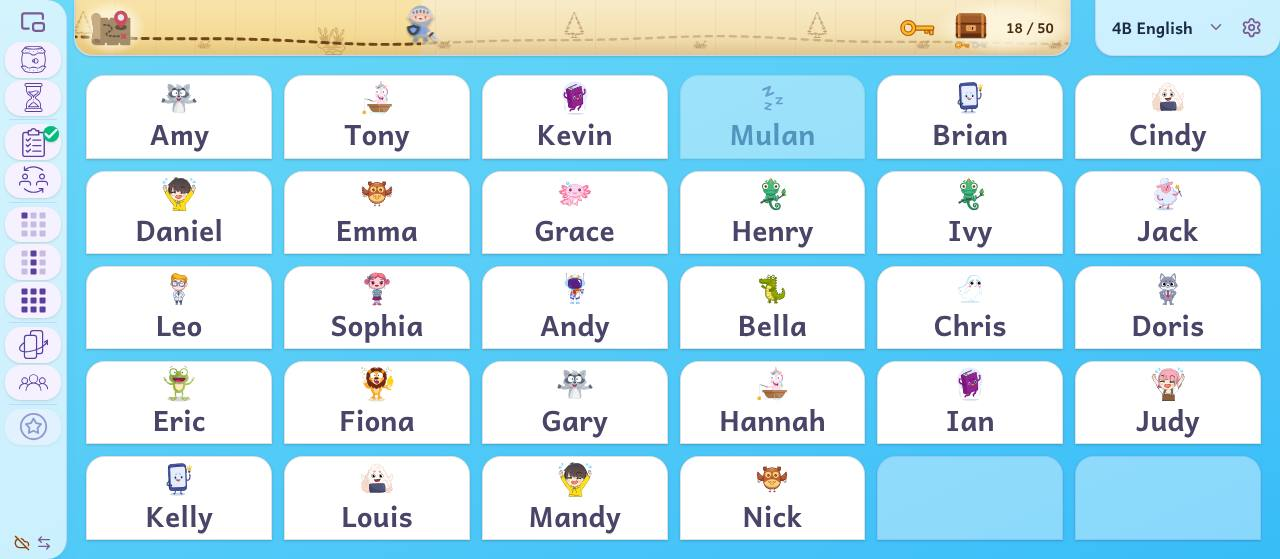
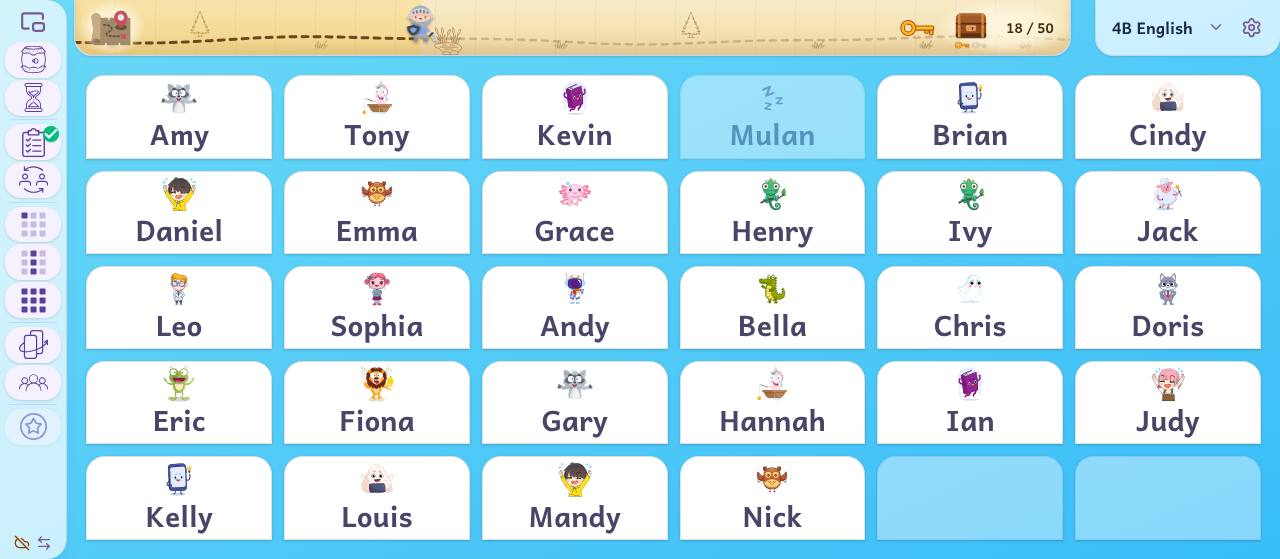
The goal bar's land and trail stay still while the knight walks, and slide back with him when a key is won; the last star of a goal no longer jerks the knight forward and back; on Our Quest the knight is smaller and walks past each chest at one steady pace
Claude-Session: https://claude.ai/code/session_01PE13qieobsrHkmKNdm9Swm

Changed region(s): [[0.4375, 0.0304, 0.75, 0.0912], [0.0938, 0.0608, 0.4062, 0.0912], [0.8125, 0.0608, 0.8438, 0.0912]]

diff --git a/src/components/quest/OurQuest.tsx b/src/components/quest/OurQuest.tsx
@@ -42,8 +42,15 @@ function writeSeen(classId: string, quest: number, at: number) {
     // A board that can't keep it replays from the start next time; nothing else depends on it.
   }
 }
-/** The knight's walk since the map was last open: quick when it is short, never more than a few seconds. */
-const replayMs = (distance: number) => Math.min(3000, Math.max(1200, distance * 1800))
+/** The knight's height, in chests: small beside the sleeping dragon (2026-10-13, the teacher: he was a tad too big). */
+const KNIGHT = 0.9
+/** The share of each chest's stretch, on the replay, that is the walk past the chest to the next stretch. */
+const PAST = 0.15
+/** Where the class is on the replay's route: the chest it is on and how far along that stretch. */
+const routeAt = (chest: number, t: number) => chest + (chest < CHESTS.length - 1 ? t * (1 - PAST) : t)
+
+/** The knight's walking pace on the replay, in the map's pixels a second. */
+const PACE = 320
 
 /** Low, high, low, high, and the Mega chest in the middle at the end. */
 const ROW = ['low', 'high', 'low', 'high', 'mega'] as const
@@ -84,7 +91,7 @@ export function OurQuest({ classId, quest, classPoints, goal, onOpenChest, onClo
   const dragonRef = useRef<HTMLImageElement>(null)
   const doodles = useRef<HTMLDivElement>(null)
   /** Puts the knight on the trail at a place in chests, once the map is drawn (for the replay). */
-  const placeKnight = useRef<((at: number) => void) | null>(null)
+  const placeKnight = useRef<{ distance: (at: number) => number; place: (d: number) => void } | null>(null)
   const replaying = useRef(false)
 
   // Drawn from where the chests really are, so again whenever the map changes size.
@@ -123,7 +130,7 @@ export function OurQuest({ classId, quest, classPoints, goal, onOpenChest, onClo
       let knightBox: Box | null = null
       const seg = svg.querySelectorAll('path')[now.chest] as SVGPathElement | undefined
       if (k && seg) {
-        const h = u * 1.25
+        const h = u * KNIGHT
         const w = h
         k.style.height = `${h}px`
         const len = seg.getTotalLength()
@@ -143,20 +150,58 @@ export function OurQuest({ classId, quest, classPoints, goal, onOpenChest, onClo
           svg.insertAdjacentHTML('beforeend', dot(`M${pts.join(' L')}`, '#7a4a1f'))
         }
       }
-      // For the replay: the knight anywhere along the whole trail, a place in chests (a whole
-      // number is at a chest, reached from the segment before it).
-      placeKnight.current = (v: number) => {
+      // For the replay: the knight anywhere along the whole trail (`routeAt`). Each chest's
+      // stretch ends with a short walk straight past the chest to the next stretch's start, so he
+      // walks by a chest rather than jumping from one side of it to the other, at one pace all the
+      // way (2026-10-13, the teacher).
+      placeKnight.current = (() => {
         const paths = svg.querySelectorAll('path')
-        const i = Math.max(0, Math.min(CHESTS.length - 1, Math.ceil(v) - 1))
-        const f = Math.max(0, Math.min(1, v - i))
-        const sp = paths[i] as SVGPathElement | undefined
-        if (!k || !sp) return
-        const h = u * 1.25
-        const len = sp.getTotalLength()
-        const lo = Math.min(0.45, h / 2 / Math.max(1, len))
-        const q = sp.getPointAtLength(len * (lo + f * (1 - 2 * lo)))
-        k.style.transform = `translate(${(q.x - h / 2).toFixed(1)}px, ${(q.y - h * 0.9).toFixed(1)}px)`
-      }
+        const h = u * KNIGHT
+        const on = (i: number, f: number) => {
+          const sp = paths[i] as SVGPathElement | undefined
+          if (!sp) return null
+          const len = sp.getTotalLength()
+          const lo = Math.min(0.45, h / 2 / Math.max(1, len))
+          return sp.getPointAtLength(len * (lo + f * (1 - 2 * lo)))
+        }
+        // The route as distances, so he walks at one pace along the trail and past each chest.
+        const parts: { len: number; at: (f: number) => { x: number; y: number } | null }[] = []
+        for (let i = 0; i < CHESTS.length; i++) {
+          const sp = paths[i] as SVGPathElement | undefined
+          const len = sp ? sp.getTotalLength() : 0
+          const lo = Math.min(0.45, h / 2 / Math.max(1, len))
+          parts.push({ len: len * (1 - 2 * lo), at: (f) => on(i, f) })
+          if (i < CHESTS.length - 1) {
+            const a = on(i, 1)
+            const b = on(i + 1, 0)
+            parts.push({
+              len: a && b ? Math.hypot(b.x - a.x, b.y - a.y) : 0,
+              at: (f) => (a && b ? { x: a.x + (b.x - a.x) * f, y: a.y + (b.y - a.y) * f } : null),
+            })
+          }
+        }
+        /** How far along the route a place is: the chest's stretch, then the walk past it. */
+        const distance = (v: number) => {
+          const i = Math.max(0, Math.min(CHESTS.length - 1, Math.floor(v)))
+          const x = Math.max(0, Math.min(1, v - i))
+          let d = 0
+          for (let j = 0; j < i * 2; j++) d += parts[j].len
+          if (i === CHESTS.length - 1) return d + x * parts[i * 2].len
+          if (x <= 1 - PAST) return d + (x / (1 - PAST)) * parts[i * 2].len
+          return d + parts[i * 2].len + ((x - (1 - PAST)) / PAST) * parts[i * 2 + 1].len
+        }
+        const place = (d: number) => {
+          for (const part of parts) {
+            if (d <= part.len || part === parts[parts.length - 1]) {
+              const q = part.at(part.len ? Math.min(1, d / part.len) : 1)
+              if (k && q) k.style.transform = `translate(${(q.x - h / 2).toFixed(1)}px, ${(q.y - h * 0.9).toFixed(1)}px)`
+              return
+            }
+            d -= part.len
+          }
+        }
+        return { distance, place }
+      })()
 
       // The doodles, placed like a map and in the goal bar's order: the castle and its wall where
       // the quest starts, a dense forest between Wood and Bronze, a pond at its edge, a cottage over
@@ -323,16 +368,20 @@ export function OurQuest({ classId, quest, classPoints, goal, onOpenChest, onClo
     return seen && seen.quest === quest.number ? seen.at : 0
   })
   useEffect(() => {
-    const to = now.chest + t
+    const to = routeAt(now.chest, t)
     const from = Math.min(seenFrom, to)
     writeSeen(classId, quest.number, to)
     if (to - from < 0.02 || !placeKnight.current || window.matchMedia?.('(prefers-reduced-motion: reduce)').matches) return
-    const ms = replayMs(to - from)
+    const route = placeKnight.current
+    const d0 = route.distance(from)
+    const d1 = route.distance(to)
+    // An even walking pace, as on the goal bar: a short walk takes a second or so, a long one a few.
+    const ms = Math.min(4500, Math.max(1200, ((d1 - d0) / PACE) * 1000))
     const start = performance.now() + 450 // once the map has slid in
     let raf = 0
     let steps: ReturnType<typeof setInterval> | undefined
     replaying.current = true
-    placeKnight.current(from)
+    route.place(d0)
     const frame = (now: number) => {
       const x = Math.min(1, Math.max(0, (now - start) / ms))
       if (x > 0 && !steps) {
@@ -340,7 +389,7 @@ export function OurQuest({ classId, quest, classPoints, goal, onOpenChest, onClo
         steps = setInterval(playFootstep, 420)
       }
       const e = x < 0.5 ? 2 * x * x : 1 - Math.pow(-2 * x + 2, 2) / 2
-      placeKnight.current?.(from + (to - from) * e)
+      route.place(d0 + (d1 - d0) * e)
       if (x < 1) raf = requestAnimationFrame(frame)
       else {
         clearInterval(steps)

diff --git a/src/components/PointsMeter.tsx b/src/components/PointsMeter.tsx
@@ -55,8 +55,9 @@ const treasure = (name: string) => assetUrl(`/treasure/${name}.svg`)
 /**
  * The class goal, as a strip of the quest's map (2026-10-13, the teacher's design; lib/questRoad).
  * The knight is the class: each star walks him on toward the key at the bar's end, slowly, with
- * soft footsteps, while the land slides the other way. The key won goes into the chest past it by
- * itself, and the land rolls on to the next stretch with a new key ahead. A tap on the map at the
+ * soft footsteps, along a trail that stays still under him. The key won goes into the chest past it
+ * by itself, and he, the trail and the land slide back to the start together, with the next stretch
+ * and a new key ahead. A tap on the map at the
  * bar's start opens Our Quest; a tap on the chest opens the goal's settings, or the chest itself
  * once every lock is gold.
  *
@@ -83,7 +84,15 @@ export function PointsMeter({
   // 'arriving' is the knight walking up to the key; 'key' the key moment; 'rolling' the land
   // going on to the next stretch.
   const [phase, setPhase] = useState<'idle' | 'arriving' | 'key' | 'rolling'>('idle')
-  const [keysWon, setKeysWon] = useState(1)
+  /**
+   * The goals filled that the bar shows: it catches up with goalsReached only as each key lands
+   * (or straight away, for one won in the floating window). Until then the knight stays on the
+   * stretch he is on and the lock stays empty, even though the class's data already has the key -
+   * reading the new count while the last star was still in the air jumped the land a stretch
+   * ahead, then back, then rolled it on (2026-10-13, the teacher).
+   */
+  const [shownReached, setShownReached] = useState(goalsReached)
+  const latestReached = useRef(goalsReached)
   /** Bumped as a key lands, so the chest gives its click and wiggle. */
   const [clicks, setClicks] = useState(0)
   const [motion, setMotion] = useState<RoadMotion>('none')
@@ -97,6 +106,7 @@ export function PointsMeter({
     holdRef.current = holdKeyMoment
     phaseRef.current = phase
     latestPoints.current = classPoints
+    latestReached.current = goalsReached
     settledRef.current = onSettled
   })
   // Normally mirrors classPoints, but holds at full through the key moment so the knight stays at
@@ -147,6 +157,7 @@ export function PointsMeter({
       timers.current.forEach(clearTimeout)
       timers.current = []
       setDisplayPoints(classPoints)
+      setShownReached(goalsReached)
       setPhase('idle')
       setMotion('none')
       return
@@ -168,7 +179,6 @@ export function PointsMeter({
     // A key is already on its way: the knight stays at the key until it is in, and what landed
     // meanwhile is picked up then. A second goal filled meanwhile is one more key in the same moment.
     if (phaseRef.current === 'arriving' || phaseRef.current === 'key') {
-      if (goalsReached > prev.reached) setKeysWon((n) => n + goalsReached - prev.reached)
       if (classPoints > prev.value || goalsReached > prev.reached) sound()
       return
     }
@@ -182,13 +192,13 @@ export function PointsMeter({
         // simply gold, and the land rolls on.
         setClicks((n) => n + 1)
         setDisplayPoints(classPoints)
+        setShownReached(goalsReached)
         setPhase('rolling')
-        walk(ROLL_MS, 'roll', true)
+        setMotion('roll')
         later(ROLL_MS, settle)
         return
       }
       // The knight walks up to the key, and then it is his.
-      setKeysWon(goalsReached - prev.reached)
       setDisplayPoints(goal)
       setPhase('arriving')
       walk(WALK_MS, 'move', silent)
@@ -215,7 +225,9 @@ export function PointsMeter({
     setClicks((n) => n + 1)
     setPhase('rolling')
     setDisplayPoints(latestPoints.current)
-    walk(ROLL_MS, 'roll')
+    setShownReached(latestReached.current)
+    // He is carried back with the land, not walking: the knight, the trail and the land slide together.
+    setMotion('roll')
     later(ROLL_MS, settle)
   }
 
@@ -264,9 +276,12 @@ export function PointsMeter({
   const waiting = phase === 'arriving' || phase === 'key'
   const p = goal > 0 ? Math.min(1, Math.max(0, displayPoints / goal)) : 0
   // While the key is on its way its lock isn't gold yet, and the knight is still on its stretch.
-  const have = waiting ? Math.max(0, chest.have - keysWon) : chest.have
-  const k = Math.max(0, questKeys - (waiting ? keysWon : 0))
-  const ready = phase === 'idle' && chest.ready
+  // Keys won that haven't gone into the chest on the bar yet: their locks aren't gold, and the
+  // knight is still on their stretch.
+  const pending = Math.max(0, goalsReached - shownReached)
+  const have = Math.max(0, chest.have - pending)
+  const k = Math.max(0, questKeys - pending)
+  const ready = phase === 'idle' && pending === 0 && chest.ready
   const near = p >= NEAR_FROM && !waiting
   const tier = CHESTS[chest.chest]
   const knightX = geo ? geo.x0 + p * (geo.x1 - geo.x0) - 18 : 0
@@ -355,7 +370,7 @@ export function PointsMeter({
         </div>
       )}
 
-      {keyMoment && <KeyMoment count={keysWon} target={() => chestRef.current} onLanded={keyLanded} />}
+      {keyMoment && <KeyMoment count={Math.max(1, pending)} target={() => chestRef.current} onLanded={keyLanded} />}
     </div>
   )
 }

diff --git a/src/lib/questRoad.ts b/src/lib/questRoad.ts
@@ -1,12 +1,11 @@
 /**
  * The goal bar as a strip of the quest's map (2026-10-13, the teacher's idea, from the shoebox
  * scrolls he and his brother made as children: a long drawn scene wound past a cut-out character).
- * The whole bar is parchment; the knight walks along it as stars come in, and the land slides the
- * other way, so the class sees itself travelling. Each key is one stretch of road; a key won rolls
- * the land on to the next stretch.
- *
- * Three speeds (the teacher's): the knight walks slowly across the bar, the land (every doodle)
- * slides back at 45% of his walk, and the trail under his feet at 15%.
+ * The whole bar is parchment, and each key is one stretch of road across it. **The land and the
+ * trail stay still while the knight walks** along the trail as stars come in; when he reaches the
+ * key, the knight, the trail and the land all slide back to the start together, like the scroll's
+ * rolls turning, revealing the next stretch (2026-10-13, the teacher: everything moving at once,
+ * at three speeds, was too much; it was tried that way first).
  *
  * What the road passes is the map's, in the map's order, each landmark once (the teacher: don't
  * overuse any one doodle): the castle where the quest starts, a wood and the pond on the way to
@@ -16,9 +15,13 @@
  * tree. An adventure after Knight and Dragon is a new list here and new pictures, not new code.
  */
 
-/** How far the land and the trail slide for the knight's whole walk across one stretch. */
-export const LAND_SPEED = 0.45
-export const TRAIL_SPEED = 0.15
+/**
+ * How far the land and the trail slide back while the knight walks one stretch, as a share of his
+ * walk: none, so the world stays still under him (the teacher's call). Kept as numbers so a slide
+ * can be tried again by changing them.
+ */
+export const LAND_SPEED = 0
+export const TRAIL_SPEED = 0
 
 /** Where the trail runs, from the bar's top: low in the 56px bar, so the doodles stand above it. */
 export function trailY(x: number) {

diff --git a/src/components/quest/QuestRoad.tsx b/src/components/quest/QuestRoad.tsx
@@ -24,7 +24,8 @@ const INK = '#8a5a2b'
 
 /**
  * The goal bar's parchment and everything drawn on it (lib/questRoad): the land and the trail,
- * each a layer slid by a transform at its own speed, and the way walked in dark ink, cut off at the
+ * each a layer slid by a transform (still while the knight walks, together when a key rolls the
+ * road on), and the way walked in dark ink, cut off at the
  * knight by two opposite transforms rather than a width, so the graphics chip moves all of it and
  * nothing is measured again. Only the stretches either side of the one the class is on are drawn.
  */

diff --git a/DECISIONS.md b/DECISIONS.md
@@ -176,16 +176,16 @@ Built or tried, and moved here from Next up (2026-10-12) so that Next up is only
   - **New Class moved to the class list** (the arrow by the class name), at its foot, under the classes with how many students each has; the arrow shows with one class too, since the list holds New Class. It makes the class, opens Class Settings on Class and starts the guide. **And at the foot of Class Settings' own list** (2026-10-12, the teacher: that is where a teacher looks for it), ruled off under Google, since the sections are all about this class and New Class is something to do: the same as the class list's, and at five classes greyed with "5 classes at most" rather than gone, so a teacher still knows where it is. There was room under the list at every size down to 1024x500. **Themes are picked from small drawings** - a strip of side panel and six desks - in each theme's real colours: the theme tokens also apply under `[data-theme-preview]`, so a change to a theme shows in its thumbnail by itself, plus a mark or two per theme (Comic Book's ink and dots, Chalkboard's wooden frame).
 - **The Quest, part 1** (2026-10-12, built on the branch `quest-part-1` from the Treasure Quest Preview and "The plan, agreed"; waiting for the teacher to try it before it goes on main). Only a class goal has a quest; student points and no points never win keys.
   - **Kept with the class** (`quest`, `prizes`; `lib/quest.ts`): the keys won this quest and the chests opened, each with its prize and day, rather than "the chest we're on", so a key won while a full chest waits carries into the next chest. Every goal filled is a key, counted where the goal fills (`addClassPoints`), so a key from the floating window, a Get Ready! prize or All Stars In! is the same key. A class from before starts its first quest at the Wood chest with no keys.
-  - **The goal bar is a strip of the quest's map** (2026-10-13, the teacher's design, worked out in a preview, "Quest Road Preview", https://claude.ai/artifact/6GXs1FS1v6WMrU3LtiJ26b; `lib/questRoad.ts`, `components/quest/QuestRoad.tsx`). **Why**: the children hardly ever saw the quest, which lived behind a tap on the chest, and a key took a tap, a full chest another, so a teacher could miss the quest altogether. Now the whole bar is parchment, the knight is the class and stands where the coin was, and every star walks him on toward the key at the bar's end, where the whole room sees it every lesson. **It came from the teacher's childhood shoebox scrolls**: a long drawn scene wound past a cut-out character on paper-towel rolls. **Three speeds, the teacher's**: the knight walks slowly across the bar (2.4 s after a star; he moved too fast and looked as if he was bouncing, so his step is a slight sway and a pixel of lift), the land (every doodle) slides back at 45% of his walk, and the trail under his feet at 15%; the way walked is dark ink with a light gold over it. **Soft footsteps** as he walks (`playFootstep`, a puff of noise near 1kHz, the two feet a shade apart), and **one coin for a burst of stars**, as always. **What the road passes is the map's, in the map's order, each landmark once** (the teacher: use the key things sparingly, don't overuse any one doodle): the castle where the quest starts, a wood of four and the pond on the way to Bronze, the cottage and the crossroads on the way to Silver, a small fort, the bridge, an orchard of two and a wood of three on the way to Gold, mountains drawing nearer on the way to Mega, and the dragon's mountain; between them single pines and grass, spaced out, never three of the same in a row, and an apple tree only now and then. **No hills** (they looked wrong on the strip). Each key is one stretch of road; only the stretch the class is on and its neighbours are drawn. The map, the chest and the count sit on soft clearings in the parchment, and the count is in the map's brown ink in every theme (white numbers were lost on the parchment in Dark and Chalkboard); the bar keeps each theme's shape and frame. An adventure after Knight and Dragon is a new landmark list and new pictures, not new code. **The map at the bar's start opens Our Quest; the chest opens the goal's settings in Points** (the teacher), or the chest itself once every lock is gold, when it rattles. Past the road, the key the goal wins, bobbing once the meter is 85% full, and the chest the class is on (drawn in code, `lib/questArt.ts`), its lock plate with a keyhole for each key it needs, the ones won gold, and a little key under it for each lock.
-  - **The key moment** (`KeyMoment.tsx`): the knight walks up to the key, then a big key comes to the middle over a light dim with "You got a key!" and a short jingle (four notes up, `playKeyJingle`). **After two seconds it flies into the chest by itself** (2026-10-13, the teacher: it waited for a tap, which was one tap too many and a way to miss the quest), the one thing in the app that moves on by itself, on purpose: a short ending that always plays the same way. A tap sends it sooner (after 0.7 s, the board's second touch). A click (`playKeyClick`), the chest wiggles, one lock is gold, and **the land rolls on** (3.2 s): the knight walks back to the start of the bar as a fresh stretch of road and a new key roll in, so the world moves on and he never goes backwards, and the bar picks up what carried over.
+  - **The goal bar is a strip of the quest's map** (2026-10-13, the teacher's design, worked out in a preview, "Quest Road Preview", https://claude.ai/artifact/6GXs1FS1v6WMrU3LtiJ26b; `lib/questRoad.ts`, `components/quest/QuestRoad.tsx`). **Why**: the children hardly ever saw the quest, which lived behind a tap on the chest, and a key took a tap, a full chest another, so a teacher could miss the quest altogether. Now the whole bar is parchment, the knight is the class and stands where the coin was, and every star walks him on toward the key at the bar's end, where the whole room sees it every lesson. **It came from the teacher's childhood shoebox scrolls**: a long drawn scene wound past a cut-out character on paper-towel rolls. **The land and the trail stay still while the knight walks** (2026-10-13, the teacher, after trying it in the preview of the app: everything moving at once was too much); the knight walks slowly along the trail (2.4 s after a star; he moved too fast and looked as if he was bouncing, so his step is a slight sway and a pixel of lift), and when the key is in, **the knight, the trail and the land slide back to the start together**, the scroll's rolls turning, revealing the next stretch. It was first built with three speeds (the land sliding back at 45% of his walk and the trail at 15%); the speeds are kept as numbers in `lib/questRoad.ts`, now none. The way walked is dark ink with a light gold over it. **The last star of a goal used to jerk the knight forward, back, then to the start**: the bar read the new key while that star was still in the air; it now shows each key only as it lands. **Soft footsteps** as he walks (`playFootstep`, a puff of noise near 1kHz, the two feet a shade apart), and **one coin for a burst of stars**, as always. **What the road passes is the map's, in the map's order, each landmark once** (the teacher: use the key things sparingly, don't overuse any one doodle): the castle where the quest starts, a wood of four and the pond on the way to Bronze, the cottage and the crossroads on the way to Silver, a small fort, the bridge, an orchard of two and a wood of three on the way to Gold, mountains drawing nearer on the way to Mega, and the dragon's mountain; between them single pines and grass, spaced out, never three of the same in a row, and an apple tree only now and then. **No hills** (they looked wrong on the strip). Each key is one stretch of road; only the stretch the class is on and its neighbours are drawn. The map, the chest and the count sit on soft clearings in the parchment, and the count is in the map's brown ink in every theme (white numbers were lost on the parchment in Dark and Chalkboard); the bar keeps each theme's shape and frame. An adventure after Knight and Dragon is a new landmark list and new pictures, not new code. **The map at the bar's start opens Our Quest; the chest opens the goal's settings in Points** (the teacher), or the chest itself once every lock is gold, when it rattles. Past the road, the key the goal wins, bobbing once the meter is 85% full, and the chest the class is on (drawn in code, `lib/questArt.ts`), its lock plate with a keyhole for each key it needs, the ones won gold, and a little key under it for each lock.
+  - **The key moment** (`KeyMoment.tsx`): the knight walks up to the key, then a big key comes to the middle over a light dim with "You got a key!" and a short jingle (four notes up, `playKeyJingle`). **After two seconds it flies into the chest by itself** (2026-10-13, the teacher: it waited for a tap, which was one tap too many and a way to miss the quest), the one thing in the app that moves on by itself, on purpose: a short ending that always plays the same way. A tap sends it sooner (after 0.7 s, the board's second touch). A click (`playKeyClick`), the chest wiggles, one lock is gold, and **the road rolls on** (3.2 s): the knight is carried back to the start of the bar with the trail and the land, as a fresh stretch of road and a new key roll in, so the world moves on and he never walks backwards, and the bar picks up what carried over.
   - **A full chest asks** (`ChestQuestion.tsx`; 2026-10-13, the teacher: a chest left rattling could be forgotten while the stars went on adding up): when its last key is in and the land has rolled on, the chest comes to the middle of the board with "You have all the keys! Open the Silver chest?", a short rising run (`playChestReady`), and **Open it now** or **Later**. Later leaves it rattling at the bar's end, where a tap opens it, and **the question comes back the next time the class is opened** (from the splash, from another class, or a reload); it never asks on a clock. Stars keep counting toward the next chest's first key meanwhile, and nothing is lost. A chest filled from the floating window asks when the app is back in front, unless Open the chest was tapped there. Two goals at once are "You got 2 keys!". **The goal's own celebration no longer plays when the goal fills**: the key is the goal's moment, and the big one is the chest's.
   - **The prize reveal** (2026-10-13, the teacher, from the recommendation; it settles "The GIF celebration and the Quest, both"): once the slice has turned over, the board darkens and **the prize card fills the screen alone**, its picture big and its name ("Toy party!"), with a run of bright notes and a burst of paper; **after a few seconds the card turns over** to one of the class's GIFs with the prize's name under it, and stays until it is tapped. The prize lands first, then the party, so the young readers read the prize before a cartoon takes the eye. **The GIF is one of the class's favourites, a different one each chest** (never the one the last chest played, `celebrationGifLast`), chosen in Points' **Celebration** (one or several, or No GIF), fetched as the chest opens so it is there by the prize; with none chosen, or one that hasn't loaded, the card doesn't turn. **No GIF at the key moment**, which stays medium. Why, in short: the thrill is the waiting and the wheel, which no GIF adds to; the GIF adds surprise and a strong ending, which a single GIF five times a semester would lose. A class's one GIF from before is its first favourite. `GoalCelebration.tsx` went: the goal no longer has a celebration of its own.
   - **The chest opening** (`ChestMoment.tsx`): the board goes dark, the chest flies from the meter to the middle, strains with knocks, and bursts open with the goal's fanfare, light rays and a burst of paper; the wheel rises out of it. **Pick a Spinner** flickers through the students here today at the picker's pace and lands ("Kevin, spin!"), a pick in the participation record; **Spin!** turns the wheel for 6 seconds, popping as each peg passes (the picker's pop) and crawling over the last slice or two. Only the slice it lands on turns over; the rest fade. **The prize is won as the wheel lands** (kept with the chest at once, so a reload loses nothing), and a tap closes it. The Mega chest starts a new quest at the Wood chest, with any keys won past it, and says "A new quest begins!".
   - **The wheel**: eight slices by the agreed odds, plain for small, silver for medium, gold with a star for big, question marks on all of them while it spins; gold slices spread round, never side by side; each size's prizes used before any repeats. A list with none of a size borrows from the nearest size, and the slice keeps its colour.
   - **The prizes** are Points' new **Prizes** row ("4 small, 3 medium, 3 big"), which opens three columns in place of the section, with Back: the teacher's own rewards to start (drawing, reading, a game, music; a 10-minute video, the class picks the game, sitting with a friend; the treasure box, a toy party, candy). A prize is typed, since it is set up ahead at a desk; its picture comes from its name (lucide, the app's icons). The last prize can't be taken out.
   - **"The last key took 6 days."** is under the goal in Points, counted from the key before, or the first from the start of the quest.
-  - **Our Quest** (`OurQuest.tsx`), from the map at the goal bar's start: slides over the board on its parchment, every quest starting at the castle, the five chests zigzagging with the dotted trail between them, dark where the class has walked; each opened chest open, with its treasure and the prize as a chip; the one now glowing, with its keys; the rest faded with how many keys they need. A full chest on the map opens on a tap; anywhere else closes it. "Our Quest 2" from the second quest. Fits from 1024x500 with nothing scrolling. **The knight walks the trail from where the class last saw him** (2026-10-13, the teacher), with soft footsteps, in one to three seconds however far it is, so opening the map is a moment of its own ("Let's see how far we walked this week"); the board remembers each class's place (`seating-chart-quest-seen-v1`), on that board only, so the teacher looking at it on a laptop doesn't use it up. It never opens by itself: the bar already shows the walk live.
-    - **The knight is the teacher's cute knight** (2026-10-13; his pick over the Flow knight on a horse and the other pictures he sent, a standing knight and a knight in armour on a horse, which at board size were too small or too busy): chubby and big-headed like the avatars and the dragon, a third bigger than a chest. **It walks the trail as the meter fills** (the teacher's idea): from the last chest opened toward the one the class is on, as far as the keys already in it plus the meter make of the keys it needs (1 of Silver's 3 keys and the meter at 27 of 30 is 1.9 of 3), on the trail's own curve, dark ink behind it and faint ahead, and it reaches the chest only when every lock is gold.
+  - **Our Quest** (`OurQuest.tsx`), from the map at the goal bar's start: slides over the board on its parchment, every quest starting at the castle, the five chests zigzagging with the dotted trail between them, dark where the class has walked; each opened chest open, with its treasure and the prize as a chip; the one now glowing, with its keys; the rest faded with how many keys they need. A full chest on the map opens on a tap; anywhere else closes it. "Our Quest 2" from the second quest. Fits from 1024x500 with nothing scrolling. **The knight walks the trail from where the class last saw him** (2026-10-13, the teacher), with soft footsteps, at one steady pace (about a second for a short walk, at most four and a half), walking past each chest on his way rather than jumping from one side of it to the other (the teacher, the same day), so opening the map is a moment of its own ("Let's see how far we walked this week"); the board remembers each class's place (`seating-chart-quest-seen-v1`), on that board only, so the teacher looking at it on a laptop doesn't use it up. It never opens by itself: the bar already shows the walk live.
+    - **The knight is the teacher's cute knight** (2026-10-13; his pick over the Flow knight on a horse and the other pictures he sent, a standing knight and a knight in armour on a horse, which at board size were too small or too busy): chubby and big-headed like the avatars and the dragon, a little smaller than a chest, so the sleeping dragon is the bigger of the two (2026-10-13, the teacher: he was a third bigger than a chest, a tad too big beside the dragon). **It walks the trail as the meter fills** (the teacher's idea): from the last chest opened toward the one the class is on, as far as the keys already in it plus the meter make of the keys it needs (1 of Silver's 3 keys and the meter at 27 of 30 is 1.9 of 3), on the trail's own curve, dark ink behind it and faint ahead, and it reaches the chest only when every lock is gold.
     - **The dragon sleeps at the back foot of its mountain**, above the Mega chest and clear of it, and clear of the cave (2026-10-13, the teacher: beside the chest it felt far away, over the cave it hid it).
     - **The doodles are one ink, placed like a map, measured from where the chests and the trail fall** so none touches a chest, a label, the knight or the dragon: the castle where the quest starts with grass by it, the pond under Bronze, the crossroads on the way to Silver and a cottage over it, the bridge on the way to Gold with an apple tree over Gold, a small fort out on its own below the bridge (away from the castle, the teacher's call), a mountain range on the way to Mega, and the dragon's mountain. **Each landmark once** (2026-10-13, the teacher: use the key things sparingly, don't overuse any one doodle); the hills went (they looked wrong on the goal bar's strip, and the map keeps the strip's order). **One tree, one size** (2026-10-13, the teacher: mixed trees looked cluttered), the teacher's single pine, scattered evenly over the rest of the map with a tuft of grass here and there, and **two woods of four trees together** (on the way to Bronze, and below Gold), never more. The pond, pine, grass, apple tree, cottage, crossroads, fort and mountain range are the teacher's line drawings (`public/quest/doodle-*.svg`), drawn in the map's ink like the Flow landmarks; his lake, big forest and three-tree group were left out as too busy. The windmill and signpost stay spares.
   - **In the floating window**: a small knight walks the window's fill, as on the goal bar; the window's chest is the quest's; a goal filled there drops a key into it with the click and no tap. With every lock gold, **+1 becomes Open the chest** (Pick and Get Ready! stay), which brings the app forward and opens the chest there; "Open the app" if the browser won't.

diff --git a/CLAUDE.md b/CLAUDE.md
@@ -132,7 +132,7 @@ checks the live URL. Confirm it went green before saying something is live. It a
   - `ui/`: shadcn primitives.
 - The Quest (the class goal's keys, five chests and the prize wheel; DECISIONS, "The Quest"): `lib/quest.ts` (keys, chests,
   the odds, the prizes, `buildWheel`), `lib/questArt.ts` (the chests, key and wheel drawn in code as SVG text), `lib/questRoad.ts`
-  (what the goal bar's road passes, and its three speeds), and `components/quest/`: `QuestRoad.tsx` (the bar's parchment, land
+  (what the goal bar's road passes, and how it moves), and `components/quest/`: `QuestRoad.tsx` (the bar's parchment, land
   and trail), `KeyMoment.tsx`, `ChestQuestion.tsx` (a full chest asking), `ChestMoment.tsx` (the chest opening and the wheel),
   `OurQuest.tsx` (the map, and the knight's walk since it was last seen) and `QuestPictures.tsx`. The knight, the sleeping dragon and the landmarks are in `public/quest/`, made by `design/quest/prepare-art.py`.
 - `src/lib/starFlight.ts`: the star that flies from a desk or flip card into the goal meter's coin; `PointsMeter` waits for it
